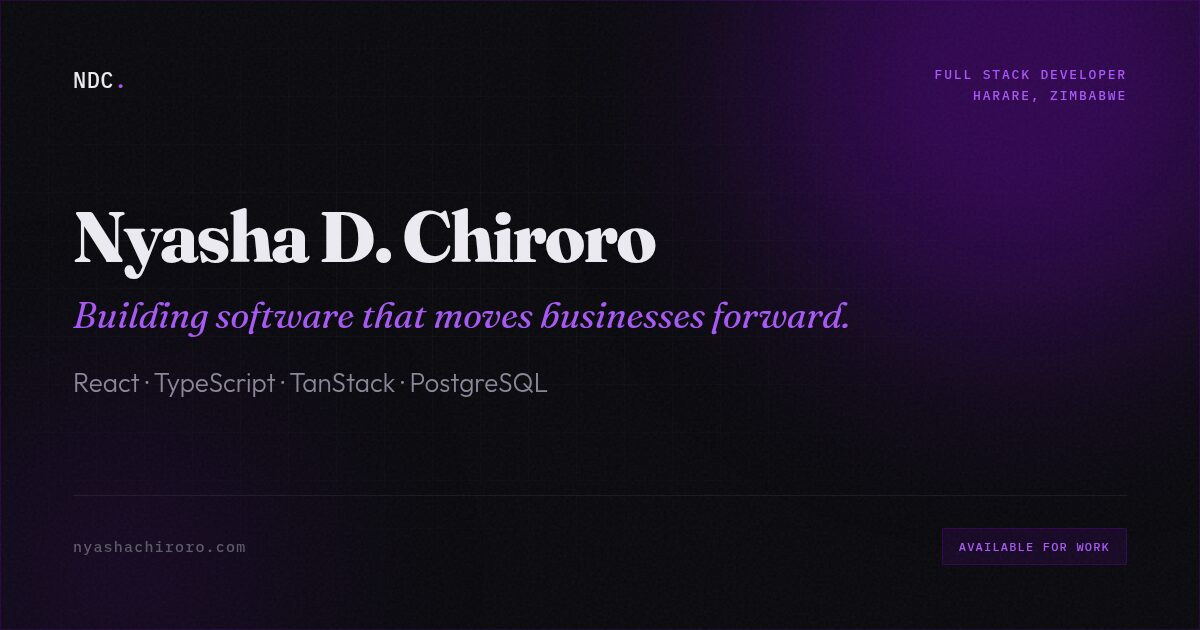
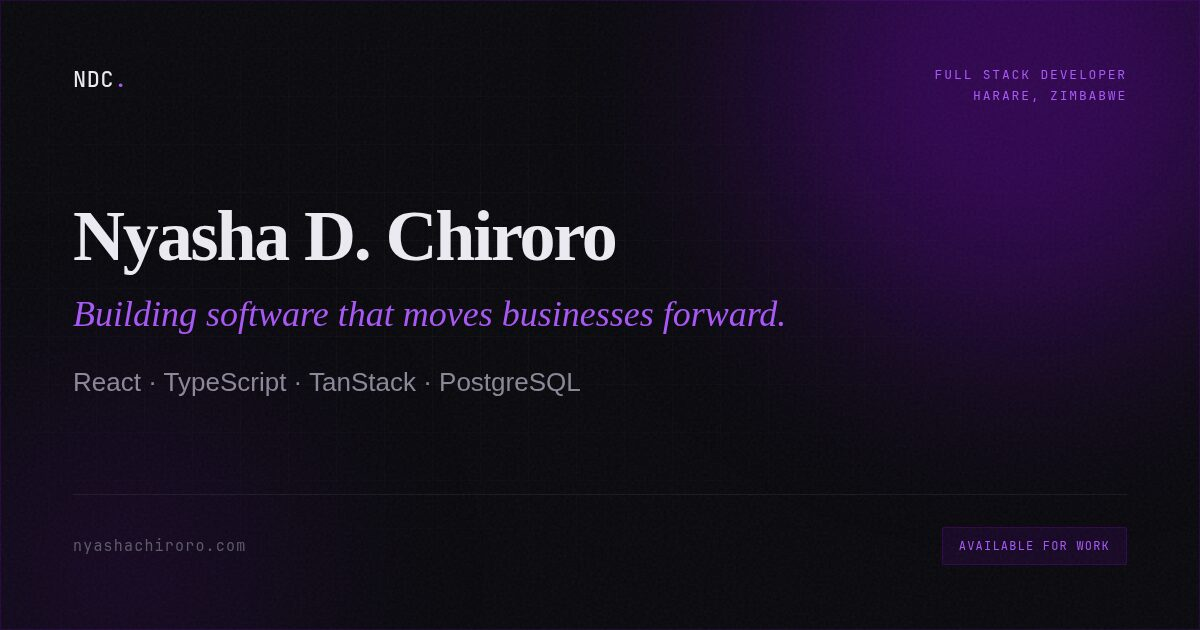
Move asset templates into asset-gen with generate scripts and drop cv.md.
Adds dependency checks for chromium and ImageMagick, and refreshes OG images after the path change.

diff --git a/README.md b/README.md
@@ -31,34 +31,29 @@ npx serve public -l 8765
 | `public/index.html` | Portfolio page |
 | `public/og-image.jpg` | Social preview image (1200×630, ~60 KB) |
 | `public/cv.pdf` | Downloadable CV |
-| `og.html` | Source template to regenerate the OG image (not deployed) |
-| `logo.html` | Source template for the NDC. logo (not deployed) |
-| `logo.png` | Square logo for [favicon.io converter](https://favicon.io/favicon-converter/) |
-| `cv.md` | CV source (markdown) |
+| `public/favicon/` | Favicon package (from favicon.io) |
+| `asset-gen/` | Source templates and scripts to generate OG image and logo (not deployed) |
 | `wrangler.jsonc` | Cloudflare Workers config |
 
-### Regenerate OG image
+### Generate OG image
 
-Edit `og.html`, then:
+Requires `chromium` and `magick` (ImageMagick). Edit `asset-gen/og.html`, then:
 
 ```bash
-chromium --headless=new --disable-gpu --hide-scrollbars --window-size=1200,630 \
-  --screenshot=public/og-image.png "file://$(pwd)/og.html"
-magick public/og-image.png -strip -quality 82 public/og-image.jpg
+./asset-gen/generate-og.sh
 ```
 
 Social meta tags point to `og-image.jpg` (smaller file — WhatsApp often fails on 700 KB+ PNGs).
 
-### Regenerate logo (for favicon)
+### Generate logo (for favicon)
 
-Edit `logo.html`, then:
+Requires `chromium`. Edit `asset-gen/logo.html`, then:
 
 ```bash
-chromium --headless=new --disable-gpu --hide-scrollbars --window-size=512,512 \
-  --screenshot=logo.png "file://$(pwd)/logo.html"
+./asset-gen/generate-logo.sh
 ```
 
-Upload `logo.png` to [favicon.io/favicon-converter](https://favicon.io/favicon-converter/), download the package, and place the generated files in `public/favicon/`.
+Upload `asset-gen/logo.png` to [favicon.io/favicon-converter](https://favicon.io/favicon-converter/), download the package, and place the generated files in `public/favicon/`.
 
 ## Contact
 
